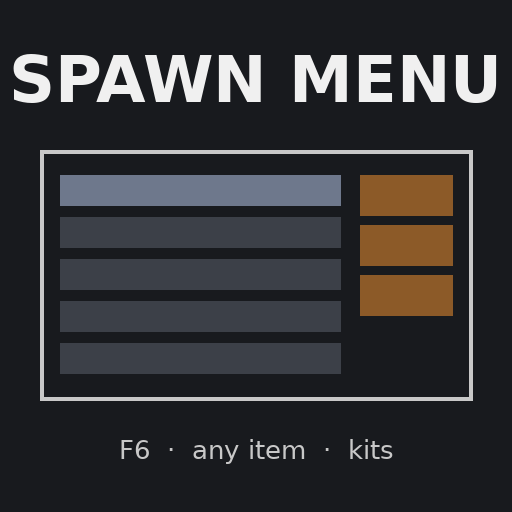
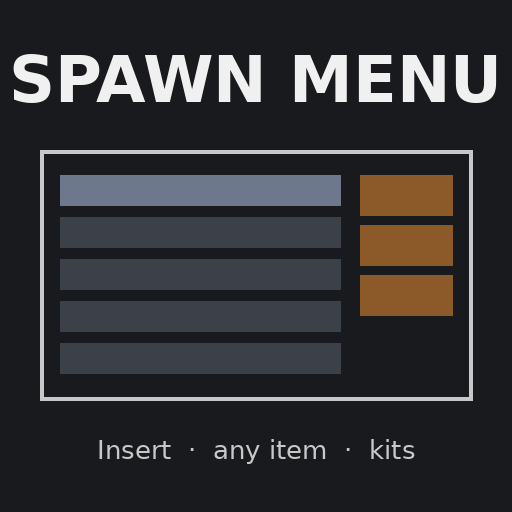
Open the menu with Insert instead of F6 (F6 is taken by DogShare)
Claude-Session: https://claude.ai/code/session_01PqPi8UAfy99xP4YACJA33p

Changed region(s): [[0.375, 0.8438, 0.8125, 0.9062], [0.1875, 0.8438, 0.3438, 0.9062]]

diff --git a/src/Plugin.cs b/src/Plugin.cs
@@ -23,7 +23,7 @@ namespace SpawnMenu
 
         public override void Load()
         {
-            MenuKey = Config.Bind("Keys", "MenuKey", KeyCode.F6,
+            MenuKey = Config.Bind("Keys", "OpenMenuKey", KeyCode.Insert,
                 "Opens and closes the spawn menu.");
             UiScale = Config.Bind("Display", "UiScale", 1f,
                 "Size of the menu. 1 = sized for the screen height, 1.25 = a quarter bigger.");

diff --git a/README.md b/README.md
@@ -1,6 +1,6 @@
 # Spawn Menu (ZED ZONE)
 
-A BepInEx (IL2CPP) testing mod for ZED ZONE. Press **F6** in game to open a menu that spawns any item, plus one-click kits.
+A BepInEx (IL2CPP) testing mod for ZED ZONE. Press **Insert** in game to open a menu that spawns any item, plus one-click kits.
 
 ## Using it
 
@@ -11,7 +11,7 @@ A BepInEx (IL2CPP) testing mod for ZED ZONE. Press **F6** in game to open a menu
 - **Kits** (right side): one click spawns the whole kit.
 - **Fill my magazines**: loads every magazine you carry from the ammo you carry.
 - **Save item list**: writes every item's id, type, stack size, name and mod guid to `BepInEx\SpawnMenu.items.txt`.
-- **F6** or **Esc** closes the menu. While it is open the game ignores your clicks and keys.
+- **Insert** or **Esc** closes the menu. While it is open the game ignores your clicks and keys.
 
 ## Kits
 
@@ -31,7 +31,7 @@ Each line is `<item> <count>`, where `<item>` is a numeric item id, `mod:<modGui
 
 ## Settings
 
-`BepInEx\config\girthy_mods.zedzone.spawnmenu.cfg`: `MenuKey` (F6), `UiScale`, `ShowHiddenItems`, `MaxPerClick`, `FillMagazines`, `VerboseLog`.
+`BepInEx\config\girthy_mods.zedzone.spawnmenu.cfg`: `OpenMenuKey` (Insert), `UiScale`, `ShowHiddenItems`, `MaxPerClick`, `FillMagazines`, `VerboseLog`.
 
 Log: `BepInEx\SpawnMenu.log`.
 

diff --git a/CHANGELOG.md b/CHANGELOG.md
@@ -1,7 +1,7 @@
 # Changelog
 
 ## 1.0.0
-- First version. F6 opens a menu that lists every item the game has loaded (its own and every mod's), with search, category tabs and an amount picker. Click an item to spawn it into your inventory (anything that doesn't fit drops at your feet).
+- First version. Insert opens a menu that lists every item the game has loaded (its own and every mod's), with search, category tabs and an amount picker. Click an item to spawn it into your inventory (anything that doesn't fit drops at your feet).
 - Kits from `BepInEx\config\SpawnMenu.kits.txt`, spawned with one click. Ships with a Boltgun kit (rifle, pistol, 4 magazines each, 300 rounds of .75, magazines loaded).
 - "Fill my magazines" loads every magazine you carry from the ammo you carry. "Save item list" writes every item's id and name to `BepInEx\SpawnMenu.items.txt`.
 - While the menu is open the game ignores your clicks and keys, so typing a search doesn't walk you around and clicking doesn't shoot.
